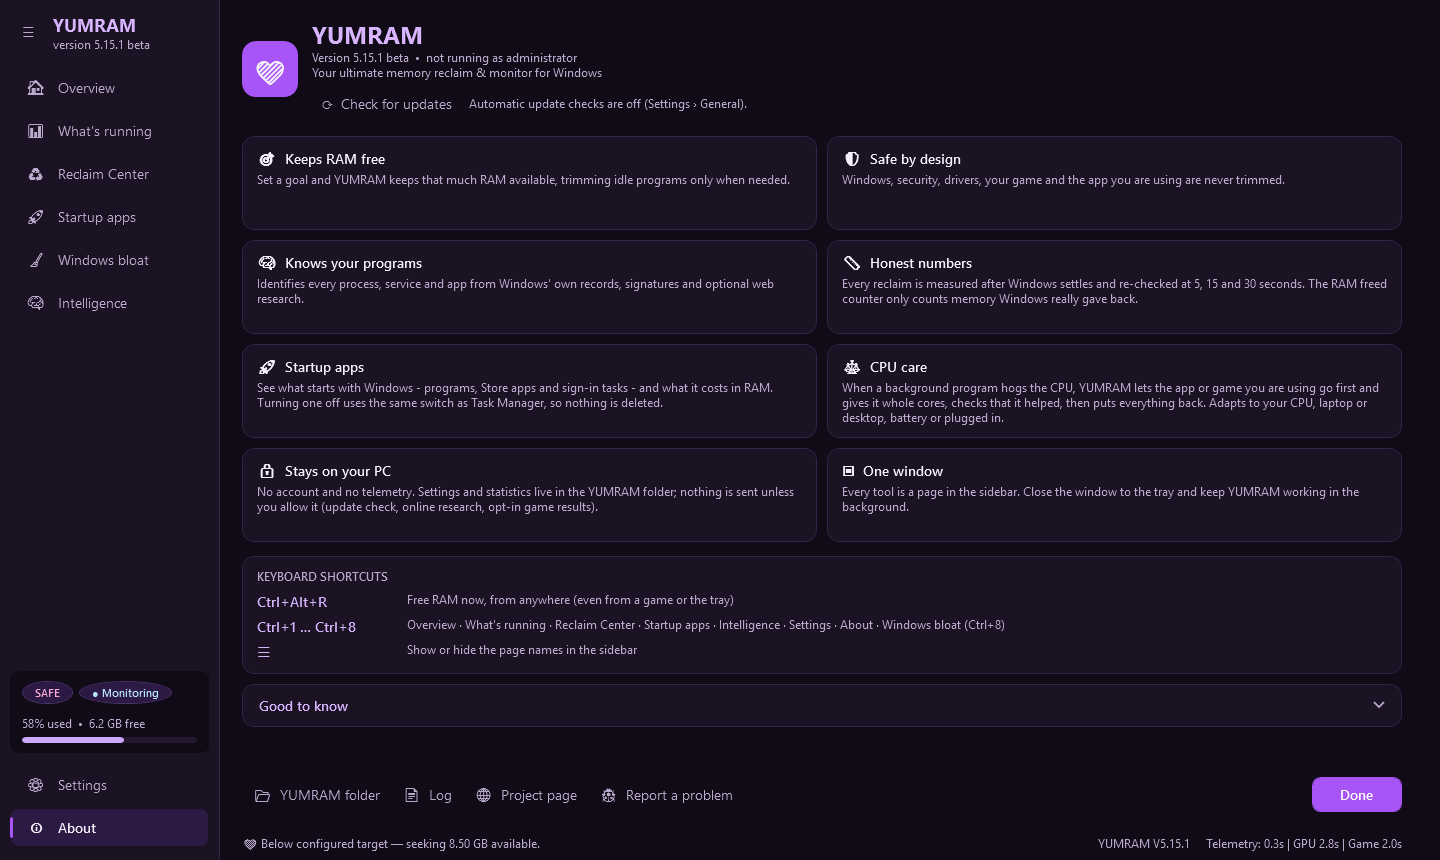
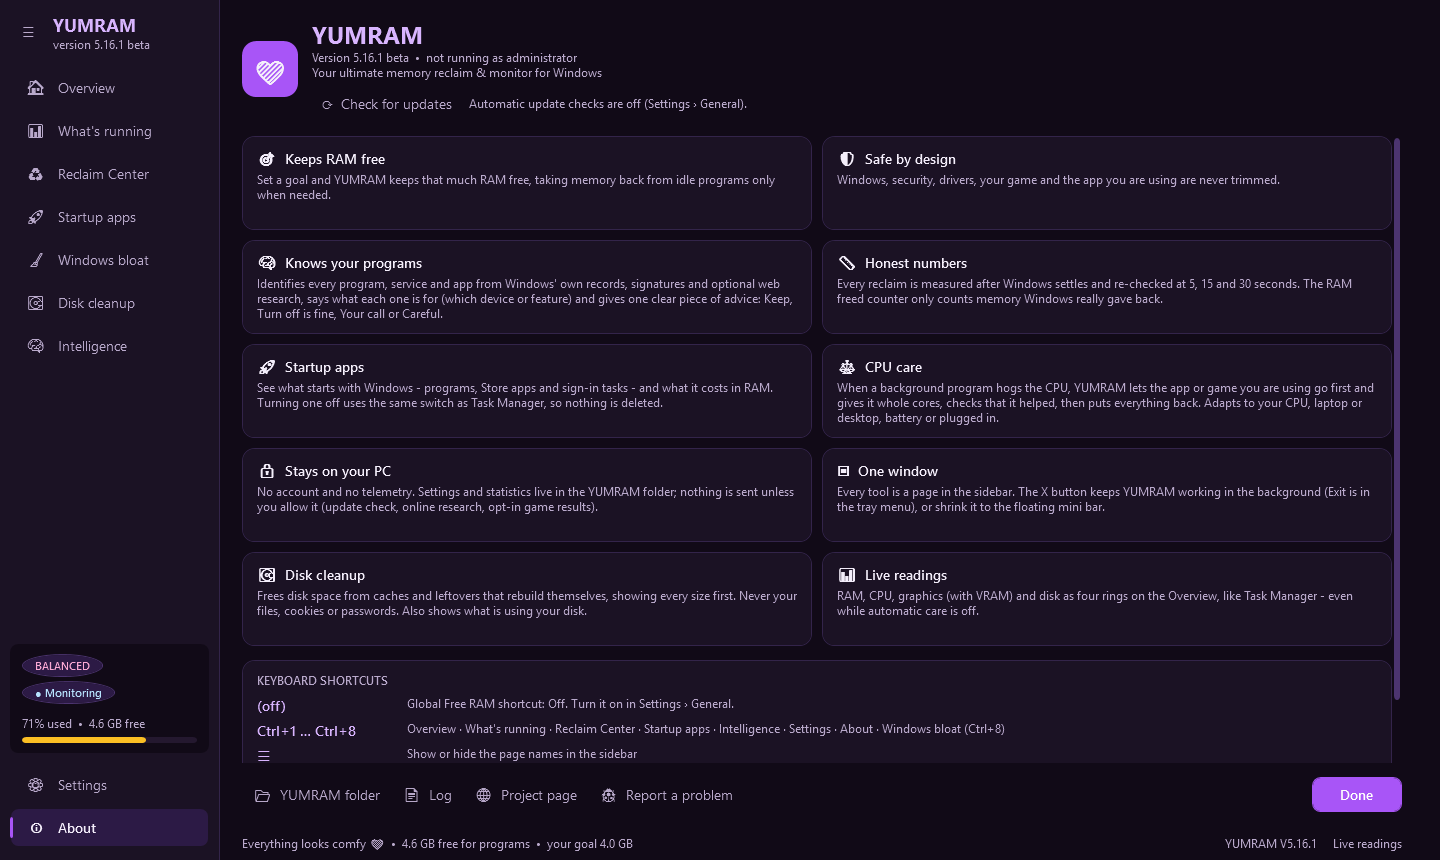
Release 5.16.1: Overview graph fixed, tuning tools left alone, faster pages
- Fix: Update-YumGraph lost its $vs declaration in 5.16.0, so the graph threw
  (strict mode) on every redraw and stayed empty. FullUiProbe now asserts the
  graph draws. Correction: 5.16.0 graph/UI-thread numbers were measured while
  broken; real graph cost 38 -> ~13 ms (YumGraphGeo.BuildSeries for 30 s).
- Overclock/undervolt tools (Afterburner/RTSS, Ryzen Master, Radeon Software,
  ThrottleStop, XTU, Precision, GPU Tweak, Armoury Crate, ...) never trimmed or
  held back ($script:YumTuningToolNames, Test-YumTuningTool); test asserts no
  power-plan code exists.
- Fix: ConvertTo-YumHashtable unrolled arrays ([] -> nothing, [x] -> x); a name
  list saved as {} showed as an OrderedDictionary type name in Settings and was
  saved back. Lists keep their shape; name lists are repaired on load.
- Intelligence first open 1.1-1.3 -> 0.6 s (skip manual-decision lookups when
  none are saved; memoized keys); What's running 0.8-1.1 -> 0.7 s (session
  program-details cache, background warm-up).
- Live sampler reads CPU/disk before compiling the GPU adapter helper.
- Repo: new screenshots of 5.16.1 incl. Disk cleanup (Tools\Capture-Screenshots.ps1
  hides user/computer name); ARCHITECTURE/CONTRIBUTING updated.

diff --git a/Docs/ARCHITECTURE.md b/Docs/ARCHITECTURE.md
@@ -1,4 +1,4 @@
-# YUMRAM architecture (5.15)
+# YUMRAM architecture (5.16)
 
 YUMRAM is a Windows PowerShell 5.1 + WPF desktop app with a small C# launcher and installer. It runs as one
 process with one UI thread and four background runspaces that share one state object.
@@ -18,21 +18,28 @@ shared state: $script:Yum (ordered dictionary; every key a worker writes exists 
  (UI\Shell.ps1)                  visible), game, foreground     - reachable-RAM estimate       room, EcoQoS, learned level)
                                                                                              - leak watch (1/min)
  short-lived runspaces: update check, community download, Windows bloat scan/removal, Startup extras
+ background readers (5.15.9+, so the UI thread never waits for Windows): live CPU/GPU/disk counters (~2 s, only while
+   the Overview or mini bar asks), VRAM per program + network, Intelligence database preload, program details
+   (path/description/company) warm-up, CPU name/laptop query
 ```
 
 Only the UI thread touches WPF objects; workers publish data into `$script:Yum` and the UI timer renders it.
+
+**Responsiveness rule (5.15.9):** nothing that can wait on Windows (performance counters, WMI/CIM, file version
+info, large JSON) runs on the UI thread; it runs in a background reader and the UI copies the latest result.
+`Tests\ResponsivenessTest.ps1` guards this. The UI test (`Tests\UI\FullUiProbe.ps1`) drives every page.
 
 ## Modules (`App\Bootstrap.ps1` load order)
 
 | Area | Files | Notes |
 |---|---|---|
-| Base | `Core\Logging.ps1`, `Core\Config.ps1`, `Core\Native.ps1` | log with 5 MB rotation; defaults merged with the user's `config.json` (old defaults migrated, user choices kept); Win32 interop (working sets, memory lists, memory combining, priority/EcoQoS) |
+| Base | `Core\TypeCache.ps1`, `Core\Logging.ps1`, `Core\Config.ps1`, `Core\Native.ps1` | compiled C# helpers cached as DLLs in `Runtime\TypeCache` (`Add-YumCompiledType`, name = type + source hash; ~3 s faster start); log with 5 MB rotation; defaults merged with the user's `config.json` (old defaults migrated, user choices kept); Win32 interop (working sets, memory lists, memory combining, priority/EcoQoS) |
 | RAM | `Core\Telemetry*.ps1`, `Core\Controller.ps1`, `Core\Cleanup.ps1`, `Core\MemoryReclaim.ps1`, `Core\Safety.ps1`, `Core\Games.ps1` | goal maintenance with hysteresis/back-off; candidates = identified, non-protected programs, re-checked by start time before acting; smallest-first plan, big programs trimmed in chunks (`SetProcessWorkingSetSizeEx`, soft limits); Free/Deep reclaim verified after 5/15/30 s; learned retention ratio |
 | CPU | `Core\CpuBalance.ps1`, `Core\LeakWatch.ps1` | one `NtQuerySystemInformation` snapshot per second; Gentle / Balanced (make room) / Strong (Efficiency mode); self-check undo; learned level while gaming from `cpu-knowledge.json`; crash-safe restore file |
 | Knowledge | `Core\Intelligence.ps1`, `Core\Research.ps1`, `Core\Scanner.ps1`, `Core\ProcessGuide.ps1` | identity (path, signer, hash), risk lanes, manual organisation, user-triggered scan (every process/service/app + installed programs, signatures checked once per file in parallel, known-apps catalog, one advice vocabulary) and optional online research |
 | Windows | `Core\Startup.ps1`, `Core\WindowsBloat.ps1`, `Core\Bloatware.ps1`, `Core\Elevation.ps1` | startup items (Run keys, Startup folders, Store startup tasks, sign-in scheduled tasks); Windows bloat apps/settings with exact undo; opt-in closing of listed background apps; admin modes |
 | Distribution | `Core\Updates.ps1`, `Core\Report.ps1`, `Core\Community.ps1` | GitHub release check every 15 min, background download + SHA-256 verify, automatic install when nothing blocks it (game, Free RAM, scans, disk clean) via the launcher's `--apply-update` (waits for the old process, ends it after 30 s, keeps `.previous`, restarts the installed version if anything fails); "Report a problem" pre-filled issue; opt-in game-result sharing and weekly shared file |
-| Live readings | `Core\LiveReadings.ps1` | Overview CPU % / speed / GPU busy / VRAM per chip (counters + DXGI) and disk busy / speed / free space (PhysicalDisk counters), UI thread, every 2 s only while the Overview or mini bar is visible; works with monitoring off |
+| Live readings | `Core\LiveReadings.ps1` | Overview CPU % / speed / GPU busy / VRAM per chip (counters + DXGI) and disk busy / speed / free space (PhysicalDisk counters), read by a background sampler (`Start-YumLiveSampler`) every ~2 s only while the Overview or mini bar asks; the UI reads `Get-YumLiveReading` (never waits); works with monitoring off |
 | What is it for | `Core\Purpose.ps1` | Plain "what is it / used for which device" text from the catalog, service descriptions and file version info; cached; used by Intelligence, What's running and Startup apps |
 | GPU memory & network | `Core\Vram.ps1` | VRAM per program ('GPU Process Memory' counters) and network speed, sampled in a background runspace; optional watch that tells you which app holds VRAM; per-app "use the fast GPU" preference (`UserGpuPreferences`) with exact undo. No API frees another program's VRAM - Windows (WDDM) owns it |
 | Mini bar | `UI\MiniBar.ps1` | Small always-on-top floating bar (RAM / CPU / GPU / disk, Free RAM, Open, hide to tray); position saved as MiniBarLeft / MiniBarTop |

diff --git a/CHANGELOG.md b/CHANGELOG.md
@@ -1,5 +1,46 @@
 # Changelog
 
+# YUMRAM 5.16.1 — Overview graph fixed; overclock/undervolt tools left alone; pages open faster; new screenshots
+
+- **Fix: the Overview graph stayed empty in 5.16.0.** When the graph code was sped up, one line was lost; the graph
+  then failed on every redraw (strict mode) and the error was caught silently. Found while re-taking the README
+  pictures (user: "double check graphs working?"). The UI test now checks that the graph really draws lines.
+  **Correction to the 5.16.0 notes:** its "graph 38 -> 4 ms" and "window thread 17 % -> 11 %" were measured with the
+  broken graph (it failed before drawing). Measured again with the fix: graph **38 -> ~13 ms** per redraw (the live
+  30-second view is now built in one compiled call per line); window thread with the Overview open about the same
+  as 5.15.9. The start-up and hidden-in-tray gains of 5.16.0 do not involve the graph and stand.
+- **Overclock / undervolt tools are never touched** (user: "I may have undervolted my GPU and overclocked my CPU").
+  YUMRAM never changes clocks, voltages, power limits, fan curves or power plans (a test now checks there is no
+  power-plan code). In addition, the tools that apply those settings - MSI Afterburner / RTSS, AMD Ryzen Master,
+  Radeon Software, NVIDIA app, ThrottleStop, Intel XTU, EVGA Precision, ASUS GPU Tweak / Armoury Crate, Legion
+  Toolkit, OMEN / Alienware / MSI Center, FanControl, HWiNFO and others - are now never trimmed by RAM care or Free
+  RAM and never held back by CPU care, whatever the settings say.
+- **Fix: Settings > CPU > "Never hold back" could show `system.collections.specialized.ordereddictionary`.** A name
+  list loaded from config.json could lose its shape (PowerShell turns `[]` into nothing and a one-item list into a bare
+  value), was saved as `{}`, shown as a .NET type name and saved back as an entry when Apply was pressed (found on
+  the test PC's real config while taking the screenshots). Lists now keep their shape, and on start the four name
+  lists drop such entries (harmless - no program has that name - but wrong).
+- Live readings: CPU and disk are read before the GPU adapter list (which compiles a helper the first time), so the
+  Overview shows numbers sooner on a busy PC.
+- **Screenshots:** the README gallery shows 5.16.1, now with Disk cleanup. `Tools\Capture-Screenshots.ps1` takes
+  them from the real app and hides the Windows user and computer name.
+
+| Opening (test PC, real data) | 5.16.0 | 5.16.1 |
+|---|---|---|
+| Intelligence (first time) | 1.1-1.3 s | **0.6 s** |
+| What's running | 0.8-1.1 s | **0.7 s** |
+| Window up and responding after start | ~5 s | **3.3 s** |
+
+- **Intelligence:** building the list asked "is there a manual decision for this program?" for every record (~1 ms
+  each, ~600 ms for 521 records) even with no saved decisions. With none saved it is skipped; with decisions the
+  same lookup runs as before (identity keys are now remembered, file path built without a slow cmdlet). Merge:
+  ~740 ms -> ~170-210 ms.
+- **What's running:** program details (path, description, company) are kept for the whole session and read once in
+  the background after start, instead of reading ~100 program files each time the page opens.
+- **Repository:** ARCHITECTURE (5.16: background readers, responsiveness rule, helper cache, live readings off the
+  UI thread) and CONTRIBUTING (UI test, Actions run by hand, new rules for slow calls and C# helpers) updated;
+  GitHub checked: 0 open issues/PRs, all three branches on the same commit, 12 published releases with assets.
+
 # YUMRAM 5.16.0 — starts 2.5 s faster, uses less CPU in the background
 
 Measured on the test PC against 5.15.9 (same machine, same data):

diff --git a/Docs/History/RELEASE_NOTES_5.16.1.md b/Docs/History/RELEASE_NOTES_5.16.1.md
@@ -1,0 +1,47 @@
+## YUMRAM 5.16.1 - Overview graph fixed, overclock/undervolt tools left alone, pages open faster
+
+### Fixed: the Overview graph was empty in 5.16.0
+When I sped up the graph in 5.16.0, one line of code was lost. The graph then failed on every redraw and the error
+was caught silently, so the History graph stayed empty. Found while re-taking the README pictures. The automated UI
+test now checks that the graph really draws its lines, so this cannot slip through again.
+
+**Correction to the 5.16.0 notes:** "graph 38 -> 4 ms" and "window thread 17 % -> 11 %" were measured while the graph
+was failing. Measured again with the fix: the graph takes **~13 ms** per redraw (5.15.9: 38 ms); YUMRAM's window
+thread with the Overview open is about the same as in 5.15.9. The faster start and lower CPU while hidden in the
+tray (5.16.0) do not involve the graph and are unchanged.
+
+### Your overclock and undervolt stay yours
+YUMRAM never changes clock speeds, voltages, power limits, fan curves or power plans - it only reads the CPU speed to
+show it. New in 5.16.1: the tools that apply those settings are never trimmed (automatic RAM care, Free RAM) and never
+held back (CPU care), whatever the settings say: MSI Afterburner and RTSS, AMD Ryzen Master, AMD Radeon Software,
+NVIDIA app, ThrottleStop, Intel XTU, EVGA Precision, ASUS GPU Tweak and Armoury Crate, Lenovo Legion Toolkit, OMEN,
+Alienware and MSI Center, FanControl, HWiNFO and others.
+
+### Fixed: a strange entry in Settings > CPU > "Never hold back"
+On some PCs this box showed `system.collections.specialized.ordereddictionary`. A list in YUMRAM's settings file
+could lose its shape when loaded and then showed up as that text (and pressing Apply saved it as an entry). It was
+harmless - no program has that name - but wrong. Lists now keep their shape, and YUMRAM removes such entries by itself.
+
+### Faster pages
+| Opening (test PC, real data) | 5.16.0 | 5.16.1 |
+|---|---|---|
+| Intelligence (first time) | 1.1-1.3 s | **0.6 s** |
+| What's running | 0.8-1.1 s | **0.7 s** |
+| Window up and responding after start | ~5 s | **3.3 s** |
+
+- Intelligence no longer looks up "your manual decision" for each of its ~500 programs when you have none saved.
+- What's running reads each program's details once per session, in the background after start.
+
+### Repository
+- New README pictures of 5.16.1 (now with Disk cleanup), taken from the real app by `Tools\Capture-Screenshots.ps1`,
+  which hides the Windows user and computer name.
+- ARCHITECTURE and CONTRIBUTING describe 5.16; checked on GitHub: no open issues or pull requests, all branches on
+  the same commit, every release has its files.
+
+### Tested
+67 automated tests and the 84-step UI test (new: the graph draws; tuning tools are never held back; saved manual
+decisions are still found; the program-details cache).
+
+### Install / update
+- From 5.15.4 or newer: installs itself within about 15 minutes (never while you play).
+- New install: `YUMRAM-Setup-5.16.1.exe` or `YUMRAM-5.16.1.zip`; `SHA256SUMS.txt` lists both checksums.

diff --git a/README.md b/README.md
@@ -4,7 +4,7 @@
 
 **Keeps your Windows PC fast by keeping RAM free and the CPU fair — automatically.**
 
-[![Version](https://img.shields.io/badge/version-5.16.0-a855f7)](CHANGELOG.md)
+[![Version](https://img.shields.io/badge/version-5.16.1-a855f7)](CHANGELOG.md)
 [![Platform](https://img.shields.io/badge/Windows-10%20%7C%2011-0078d4)](#requirements)
 [![Stage](https://img.shields.io/badge/stage-beta-22c55e)](#status)
 
@@ -52,12 +52,16 @@ Most "RAM cleaners" flush everything and show a big number. YUMRAM is different:
 | What's running | Reclaim Center |
 |---|---|
 | <img src="Docs/Screenshots/WhatsRunning.png" width="430" alt="What's running: every program's RAM and CPU, explained"> | <img src="Docs/Screenshots/ReclaimCenter.png" width="430" alt="Reclaim Center: what was trimmed and what Windows gave back"> |
-| **Windows bloat** | **Startup apps** |
-| <img src="Docs/Screenshots/WindowsBloat.png" width="430" alt="Windows bloat: preinstalled apps and ad settings, all reversible"> | <img src="Docs/Screenshots/StartupApps.png" width="430" alt="Startup apps including Store apps and sign-in tasks"> |
-| **CPU care settings** | **Intelligence** |
-| <img src="Docs/Screenshots/Settings-CPU.png" width="430" alt="CPU care levels, this PC's layout and game measurement"> | <img src="Docs/Screenshots/Intelligence.png" width="430" alt="Intelligence: identity and safety of every process, service and app"> |
-| **Settings** | **About** |
-| <img src="Docs/Screenshots/Settings.png" width="430" alt="Settings"> | <img src="Docs/Screenshots/About.png" width="430" alt="About YUMRAM"> |
+| **Disk cleanup** | **Windows bloat** |
+| <img src="Docs/Screenshots/DiskCleanup.png" width="430" alt="Disk cleanup: sizes and plain explanations first, look before cleaning"> | <img src="Docs/Screenshots/WindowsBloat.png" width="430" alt="Windows bloat: preinstalled apps and ad settings, all reversible"> |
+| **Startup apps** | **CPU care settings** |
+| <img src="Docs/Screenshots/StartupApps.png" width="430" alt="Startup apps including Store apps and sign-in tasks"> | <img src="Docs/Screenshots/Settings-CPU.png" width="430" alt="CPU care levels, this PC's layout and game measurement"> |
+| **Intelligence** | **Settings** |
+| <img src="Docs/Screenshots/Intelligence.png" width="430" alt="Intelligence: identity and safety of every process, service and app"> | <img src="Docs/Screenshots/Settings.png" width="430" alt="Settings"> |
+| **About** | |
+| <img src="Docs/Screenshots/About.png" width="430" alt="About YUMRAM"> | |
+
+Pictures: version 5.16.1, captured with `Tools\Capture-Screenshots.ps1` (user and computer name hidden).
 
 ## Install
 

diff --git a/CONTRIBUTING.md b/CONTRIBUTING.md
@@ -9,7 +9,9 @@ please test changes there.
 powershell -NoProfile -ExecutionPolicy Bypass -File Tests\Run-AllTests.ps1
 ```
 
-All tests must pass. GitHub Actions runs the same command on `windows-latest`.
+All tests must pass, and the UI test too (`powershell -STA -File Tests\UI\FullUiProbe.ps1 -Root . -Out <folder>`,
+expect "FAILS: 0"). The GitHub Actions workflow runs the same tests on `windows-latest`, started by hand
+(automatic runs are off while Actions is unavailable on this account).
 
 For anything that changes memory behaviour, also run the app and report numbers: Available RAM
 before/after (after the 1.5 s settle), YUMRAM CPU while monitoring, and anything you saw in
@@ -35,6 +37,9 @@ before/after (after the 1.5 s settle), YUMRAM CPU while monitoring, and anything
 - Source files are UTF-8 **with BOM** and CRLF (`.gitattributes` enforces CRLF; the BOM is checked
   by `Tests\StaticTest.ps1`). YUMRAM is started by `YUMRAM.exe` (built from `Launcher\YumramLauncher.cs` by `Tools\Build-Launcher.ps1`).
 - Do not touch WPF objects from a worker runspace; publish data and let the UI timer render it.
+- Never wait on Windows on the UI thread (performance counters, WMI/CIM, file version info, big files): read it in
+  a background runspace and let the UI copy the result (`Tests\ResponsivenessTest.ps1`).
+- New C# helpers: `Add-YumCompiledType -TypeName <Name> -Source @'...'@` (cached DLL), not a bare `Add-Type`.
 - Bump `VERSION` for releases; `Config/default-config.json` `Version` and `ResearchEngineVersion`
   must match it.
 - Never commit `config.json`, logs or the learned `*.json` data files (they describe the
